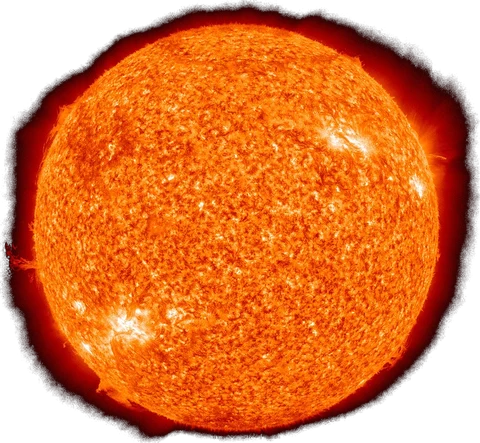
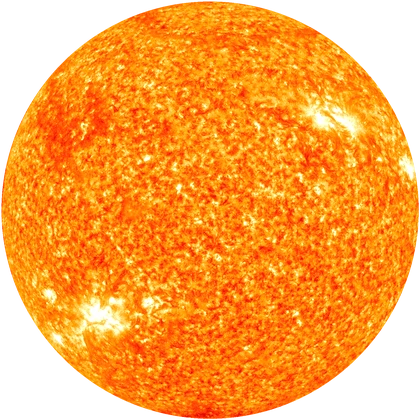
Solar system polish: clean sun with corona, sun-lit planet shading

diff --git a/components/OrbitMap.tsx b/components/OrbitMap.tsx
@@ -70,7 +70,7 @@ export default function OrbitMap() {
   const ry = rx * (wide ? 0.4 : 0.5);
   const unit = wide ? 30 : 17;
   const px = (b: Body) => Math.max(wide ? 24 : 20, Math.round(unit * b.size));
-  const sun = wide ? 84 : 46;
+  const sun = wide ? 92 : 50;
 
   useEffect(() => {
     if (!dim.w) return;
@@ -93,6 +93,12 @@ export default function OrbitMap() {
         if (el) {
           el.style.transform = `translate(${x}px, ${y}px) translate(-50%, -50%) scale(${s})`;
           el.style.zIndex = String(Math.round(depth * 10) + 1);
+          // light comes from the sun: shade the far side of each world
+          const dx = cx - x;
+          const dy = cy - y;
+          const len = Math.hypot(dx, dy) || 1;
+          el.style.setProperty("--sx", `${(dx / len) * 30}%`);
+          el.style.setProperty("--sy", `${(dy / len) * 30}%`);
           el.dataset.x = String(x);
           el.dataset.y = String(y);
         }
@@ -125,26 +131,39 @@ export default function OrbitMap() {
           {/* orbit lines, one per world */}
           <svg aria-hidden className="absolute inset-0 h-full w-full">
             {RINGS.map((r) => (
-              <ellipse key={r} cx={cx} cy={cy} rx={rx * r} ry={ry * r} fill="none" stroke="rgba(255,255,255,0.16)" strokeWidth="1" />
+              <ellipse key={r} cx={cx} cy={cy} rx={rx * r} ry={ry * r} fill="none" stroke="rgba(255,255,255,0.12)" strokeWidth="1" />
             ))}
           </svg>
 
-          {/* the sun, in the middle */}
-          {/* eslint-disable-next-line @next/next/no-img-element */}
-          <img
+          {/* the sun, in the middle: soft corona behind a clean photographed disc */}
+          <div
             aria-hidden
-            src="/solar/sun.webp"
-            alt=""
-            draggable={false}
-            className="absolute select-none"
-            style={{
-              left: cx,
-              top: cy,
-              width: sun,
-              transform: "translate(-50%,-50%)",
-              filter: "drop-shadow(0 0 28px rgba(255,150,50,0.75)) drop-shadow(0 0 70px rgba(255,120,30,0.35))",
-            }}
-          />
+            className="absolute"
+            style={{ left: cx, top: cy, width: sun, height: sun, transform: "translate(-50%,-50%)" }}
+          >
+            <div
+              className="absolute left-1/2 top-1/2 rounded-full"
+              style={{
+                width: sun * 4.2,
+                height: sun * 4.2,
+                transform: "translate(-50%,-50%)",
+                background:
+                  "radial-gradient(circle, rgba(255,190,110,0.55) 0%, rgba(255,150,60,0.28) 22%, rgba(255,120,40,0.1) 40%, transparent 62%)",
+              }}
+            />
+            {/* eslint-disable-next-line @next/next/no-img-element */}
+            <img
+              src="/solar/sun.webp"
+              alt=""
+              draggable={false}
+              className="absolute inset-0 h-full w-full select-none rounded-full"
+              style={{ boxShadow: "0 0 40px 8px rgba(255,150,60,0.6)" }}
+            />
+            <div
+              className="absolute inset-0 rounded-full"
+              style={{ background: "radial-gradient(circle, transparent 55%, rgba(120,30,0,0.55) 100%)" }}
+            />
+          </div>
 
           {BODIES.map((b, i) => {
             const size = px(b);
@@ -165,8 +184,16 @@ export default function OrbitMap() {
                 className="pointer-events-auto absolute left-0 top-0 cursor-pointer outline-none"
                 style={{ width: size, height: size, willChange: "transform" }}
               >
-                <span className={`block h-full w-full transition-transform duration-200 ${hover === i ? "scale-125" : ""}`}>
+                <span className={`relative block h-full w-full transition-transform duration-200 ${hover === i ? "scale-125" : ""}`}>
                   <World spec={PLANETS[b.planet]} />
+                  <span
+                    aria-hidden
+                    className="pointer-events-none absolute inset-0 rounded-full"
+                    style={{
+                      background:
+                        "radial-gradient(circle at calc(50% + var(--sx, 0%)) calc(50% + var(--sy, 0%)), transparent 32%, rgba(0,0,0,0.78) 82%)",
+                    }}
+                  />
                 </span>
                 <span
                   className={`absolute left-1/2 top-full mt-1 hidden -translate-x-1/2 whitespace-nowrap font-mono text-[9px] uppercase tracking-[0.18em] transition-colors sm:block sm:text-[10px] ${
